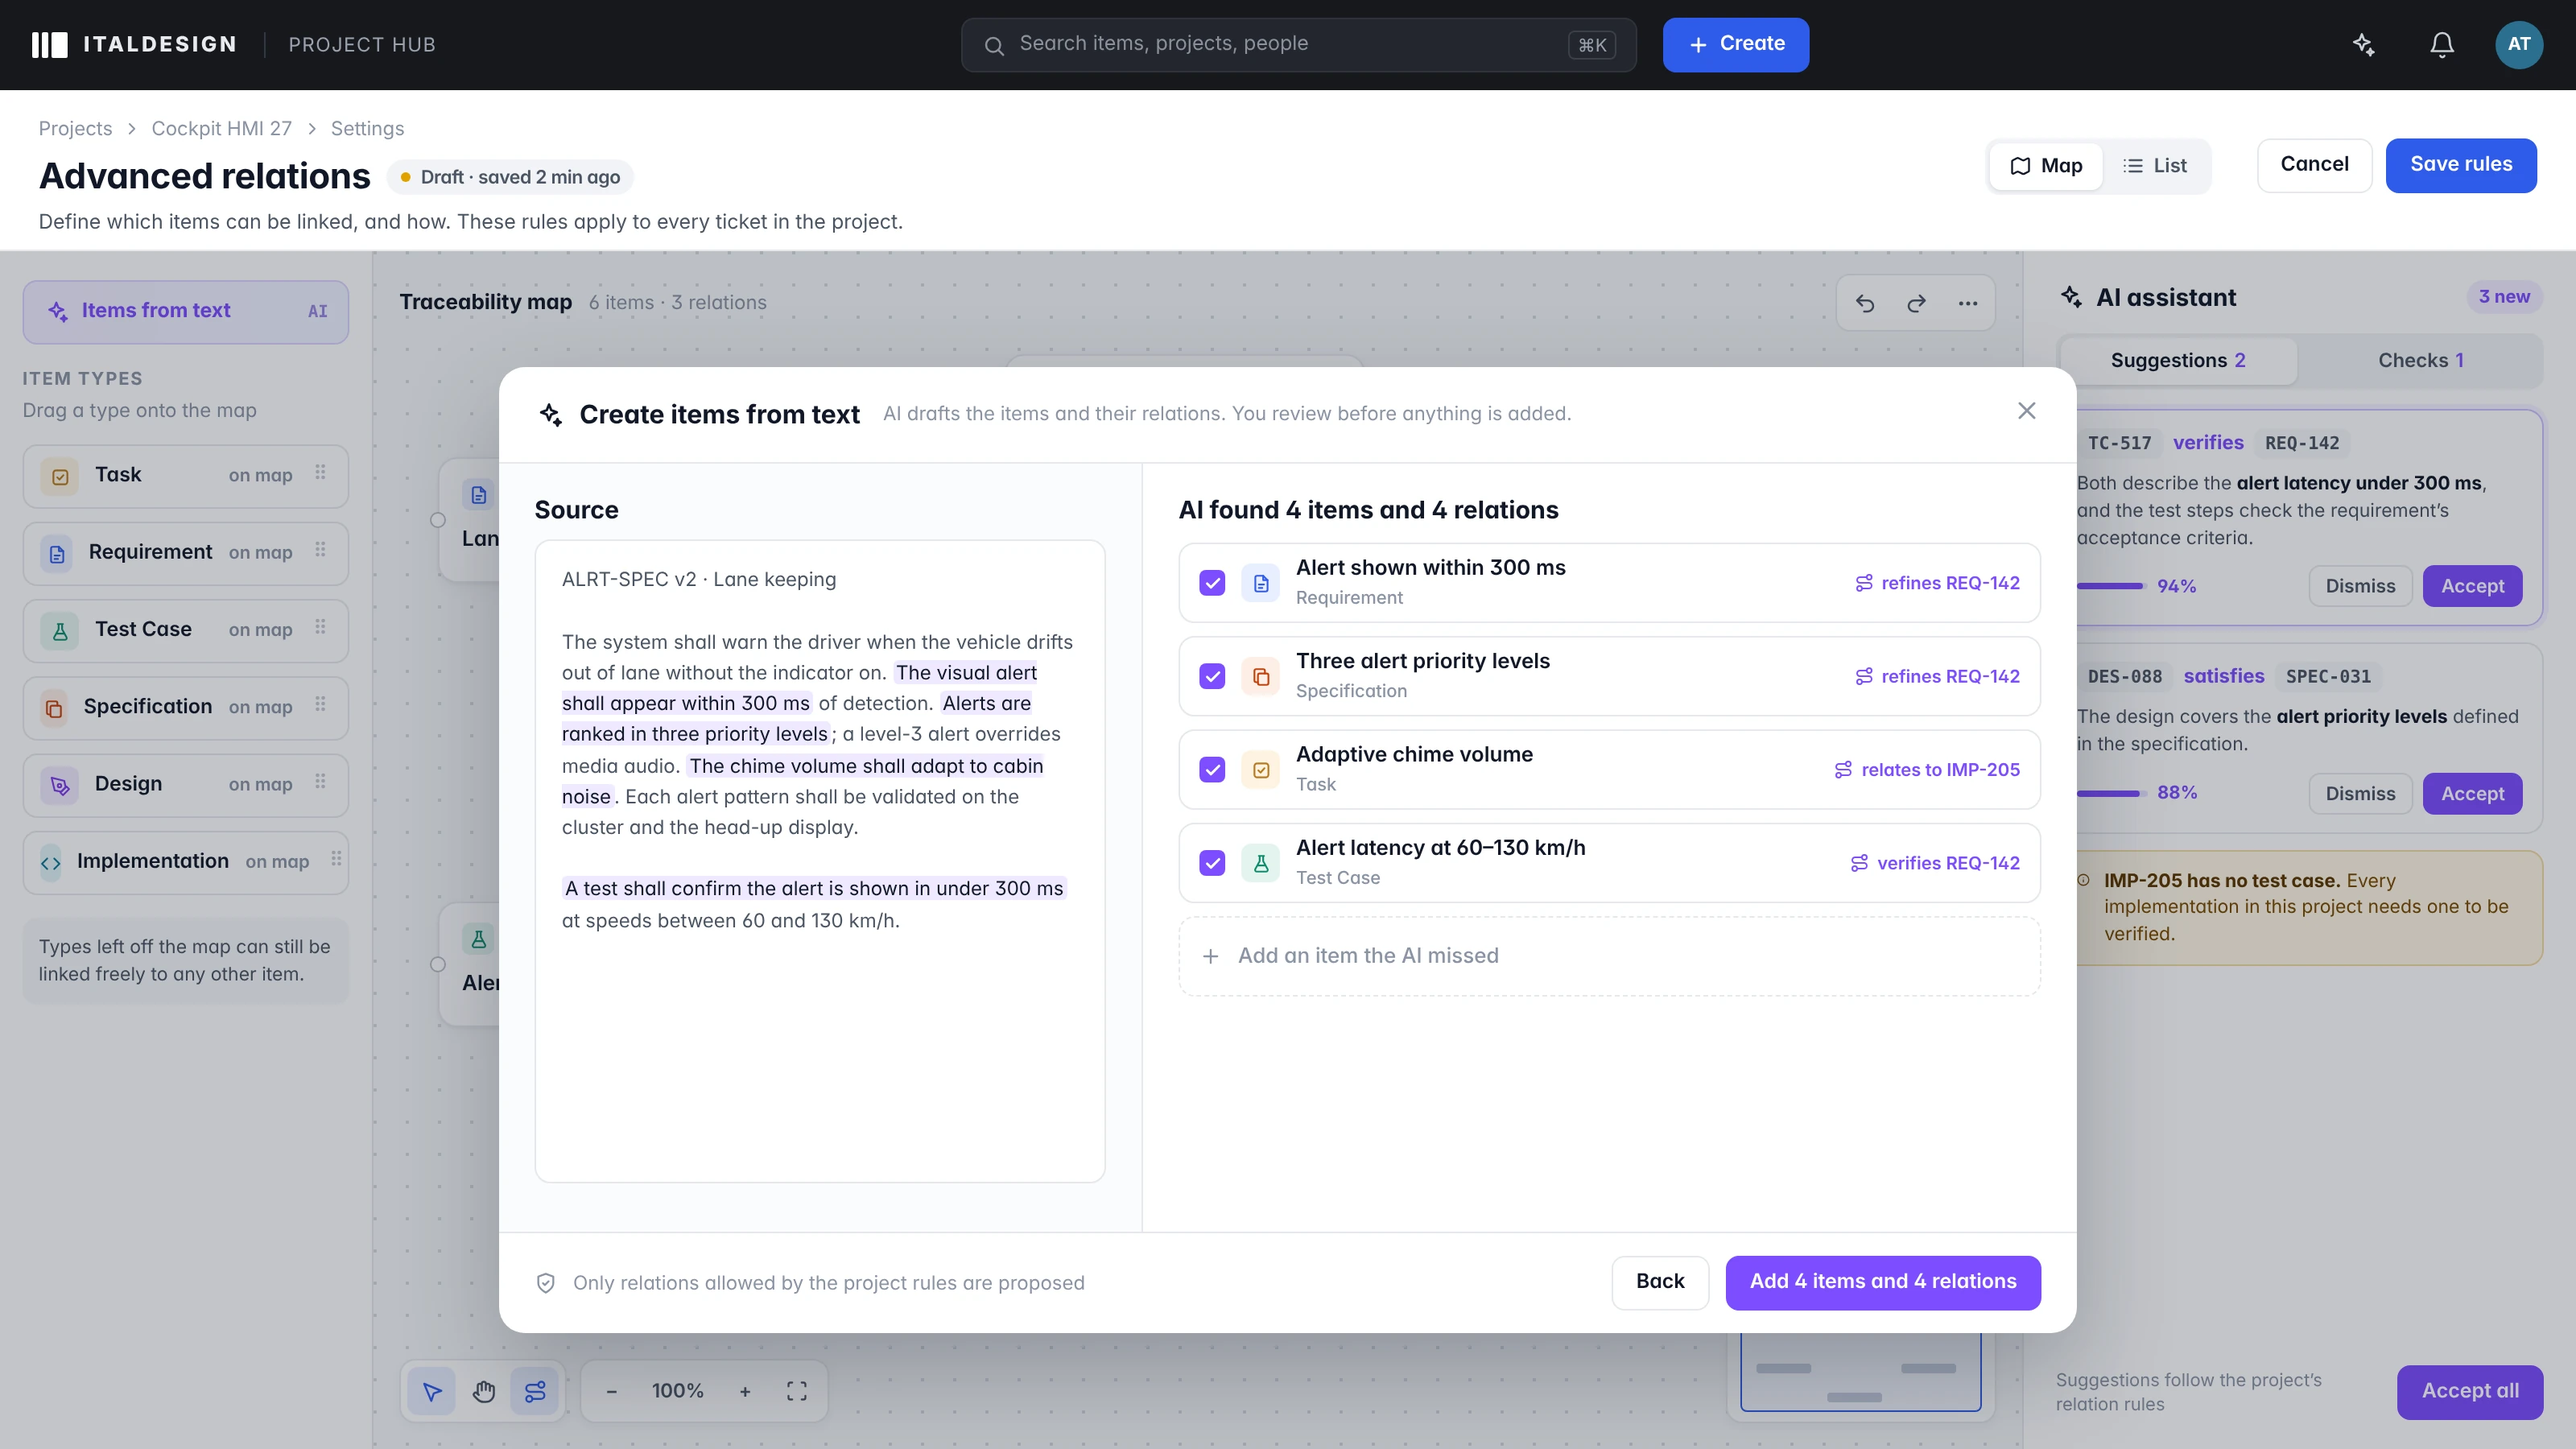
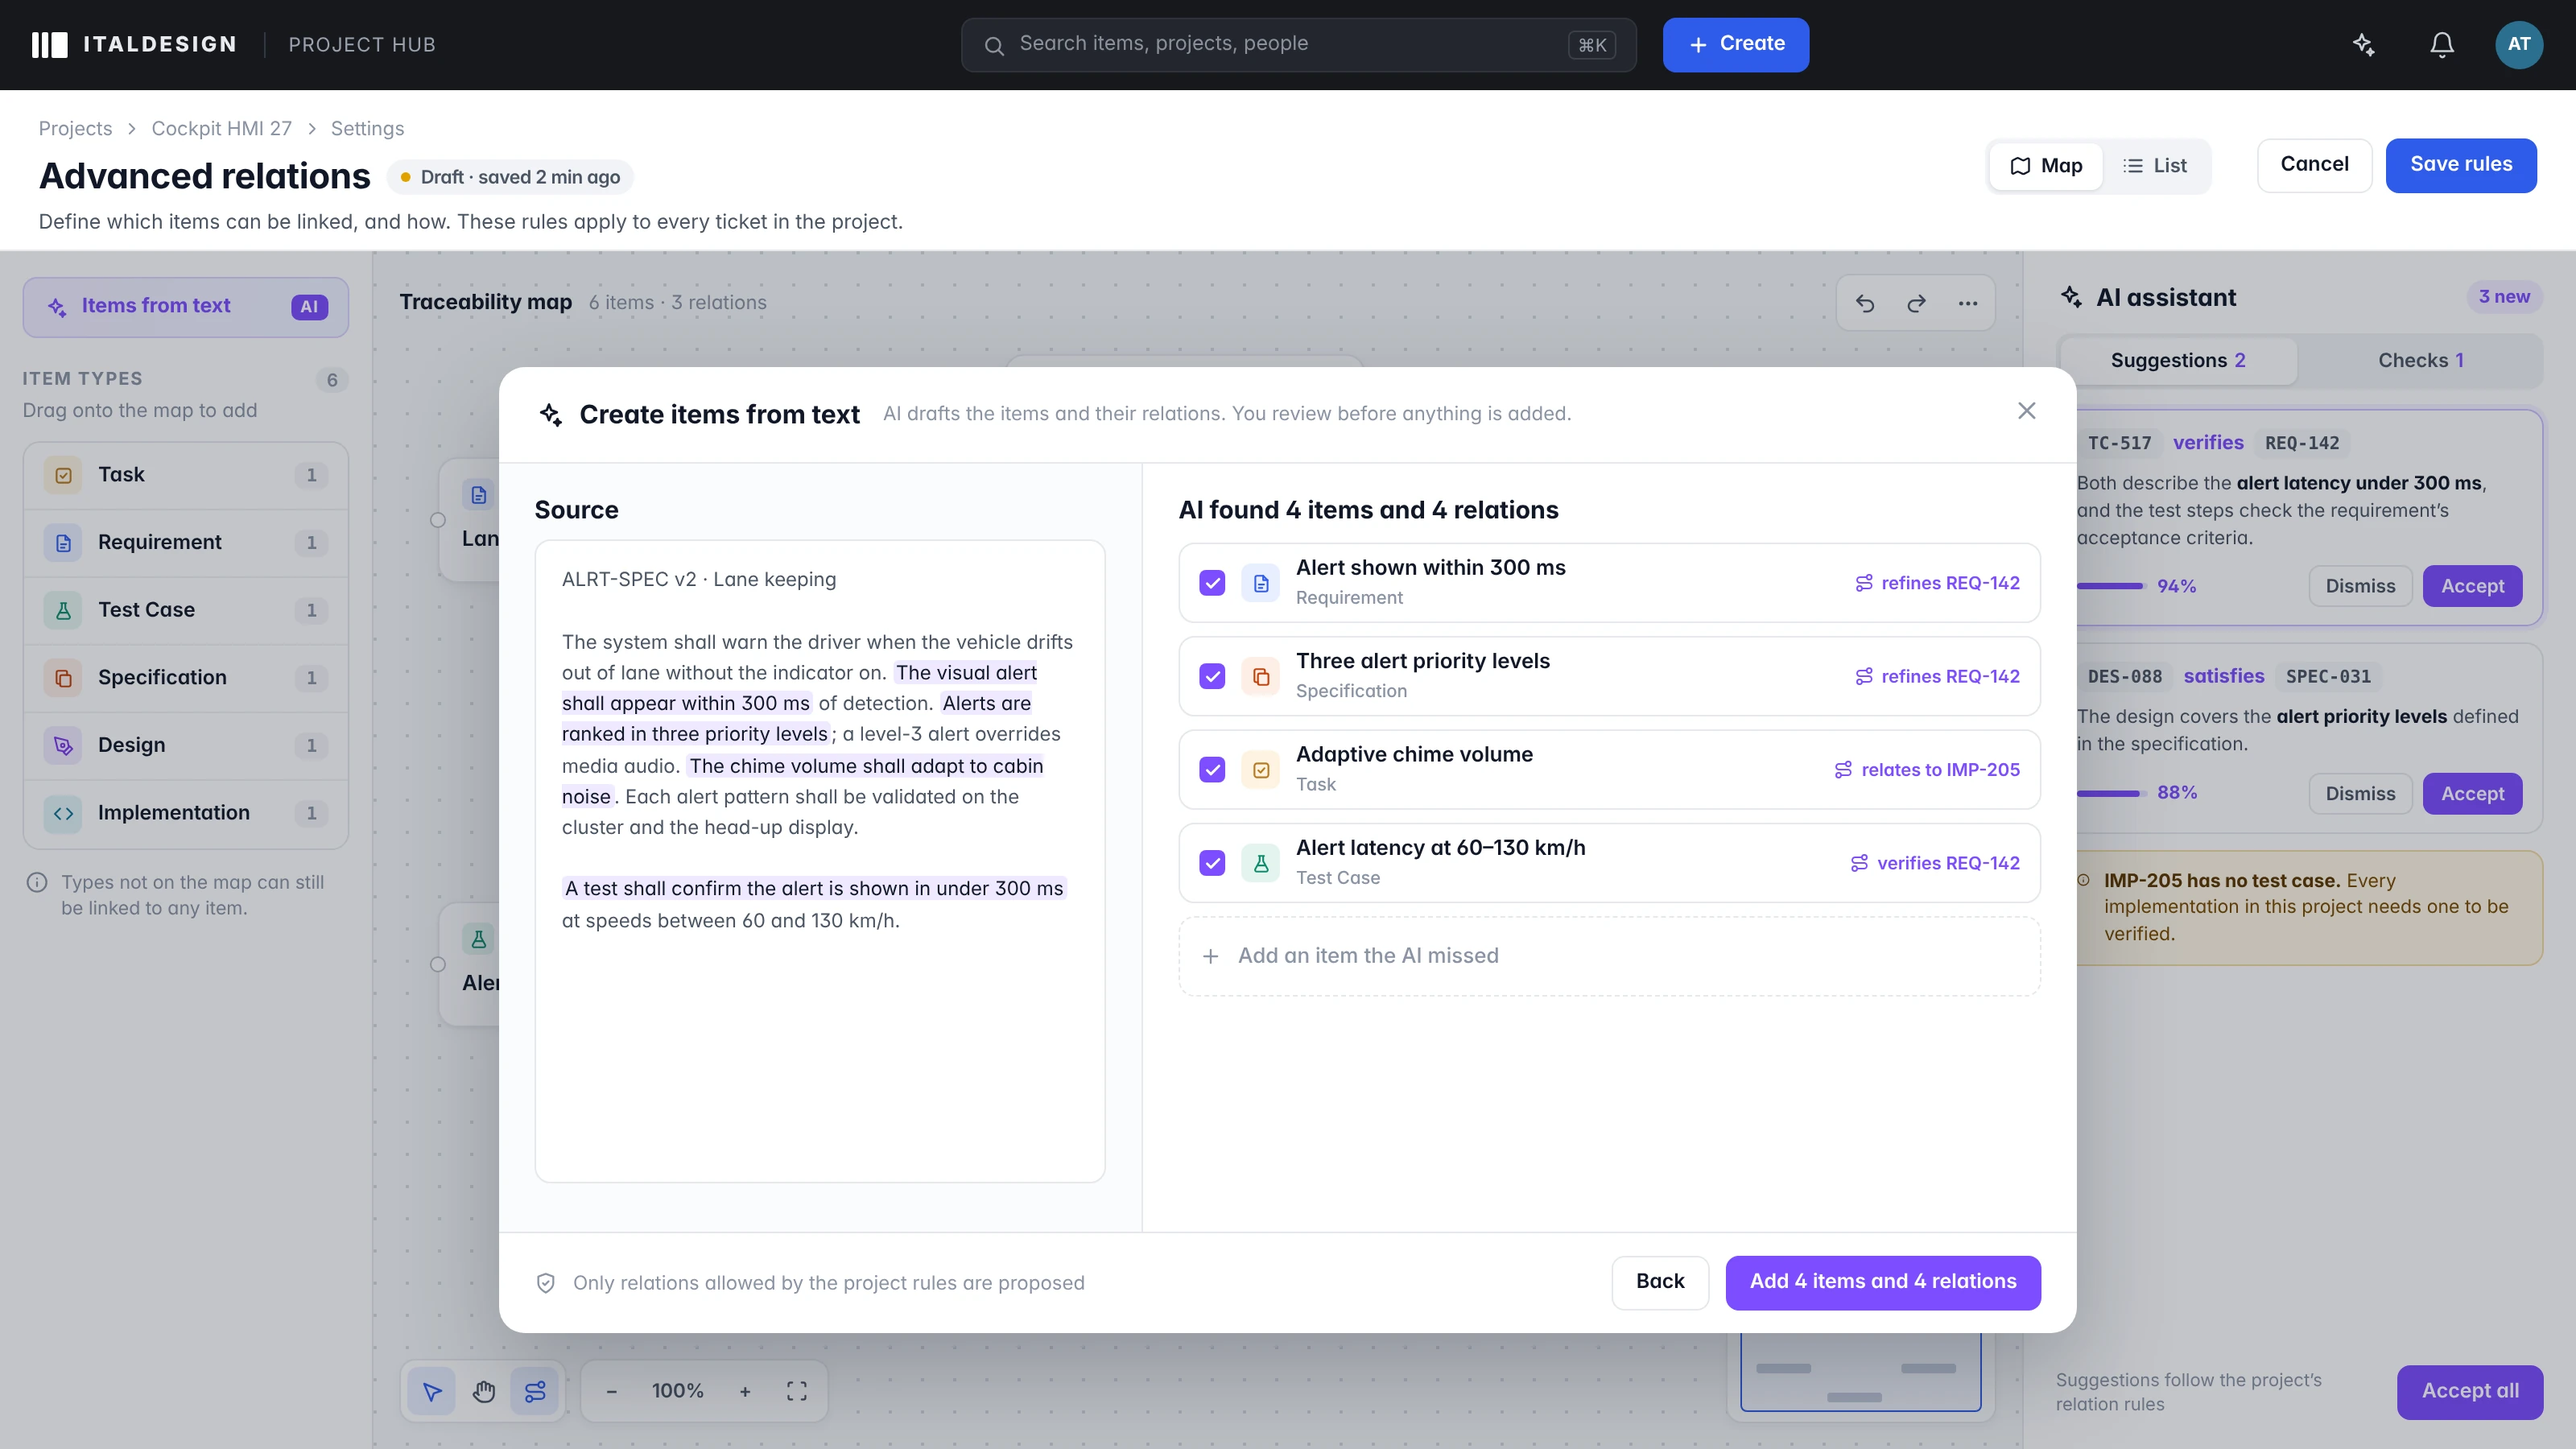
v9.4.1: cleaner Item types panel in the relations screens
Claude-Session: https://claude.ai/code/session_01V8nC7ptem1x7ZXbzsDoWyV

diff --git a/CHANGELOG.md b/CHANGELOG.md
@@ -2,6 +2,9 @@
 
 Versioning semantico: MAJOR.MINOR.PATCH (es. v1.1.0 = nuova funzione, v1.0.1 = correzione).
 
+## v9.4.1
+- Relations screens: cleaner "Item types" panel in every screen (one grouped list instead of separate boxes, count badge instead of the repeated "on map" label, no drag handles, compact AI entry, quieter footnote).
+
 ## v9.4.0
 - Relations case study retold around AI in the product: "AI that links the tickets" (IT: "L'AI che collega i ticket"). AI at three moments of the flow: from text to items, relation type suggested while linking, assistant with suggestions (reason + confidence) and consistency checks. Principle: AI suggests, people decide. New trade-offs, role, process, outcome, looking back. IT/EN.
 - New screens: rel-cover (AI assistant on the map), rel-gen (create items from text), rel-props (relation properties, the old cover). Picker shows "AI suggested"; library has an "Items from text" AI entry.
